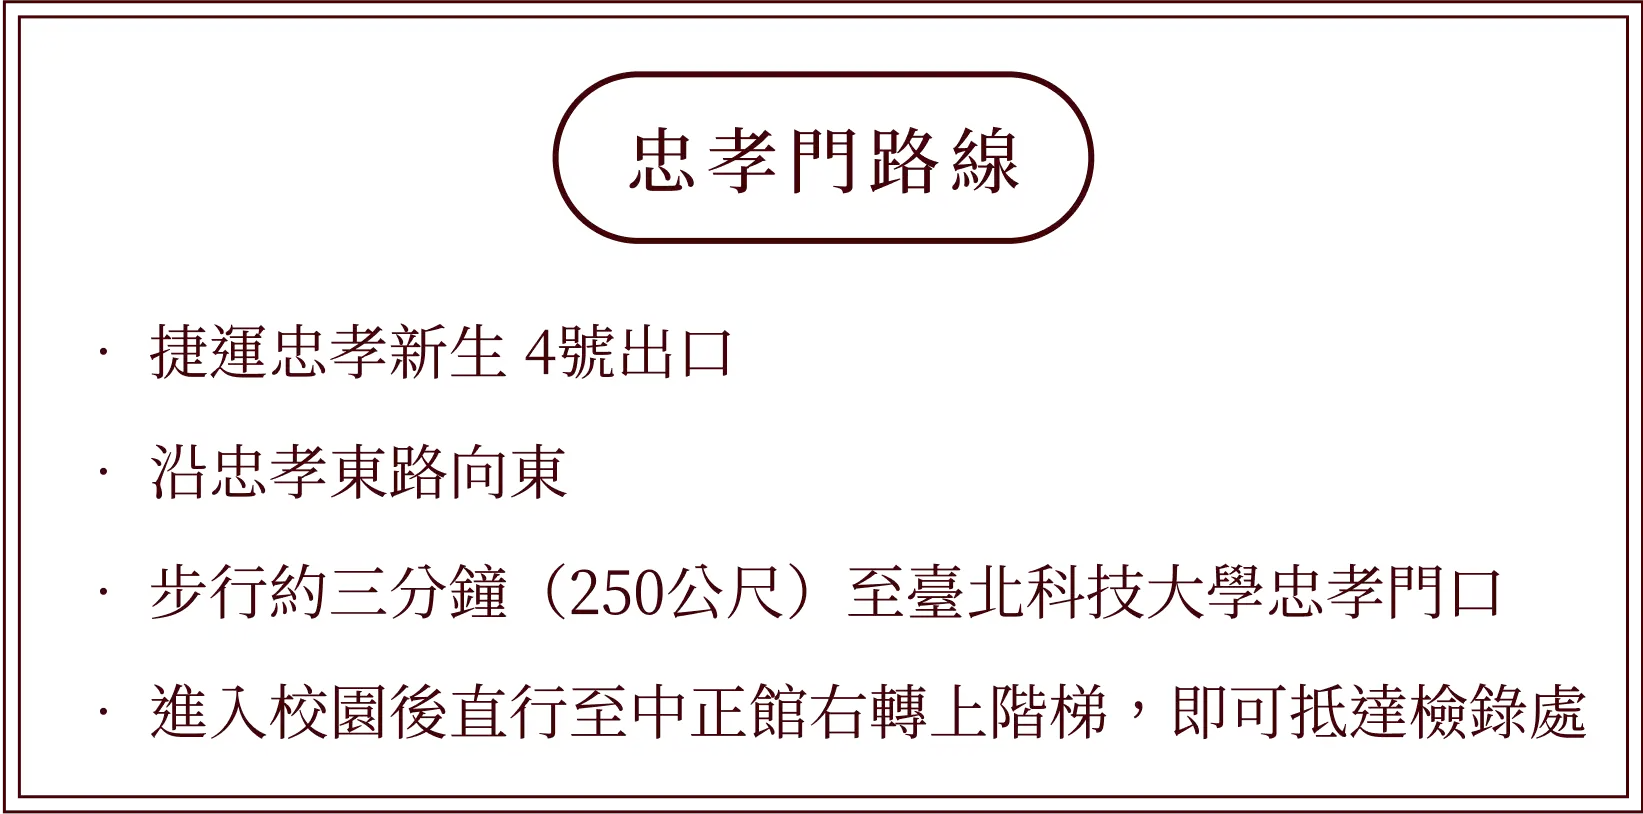
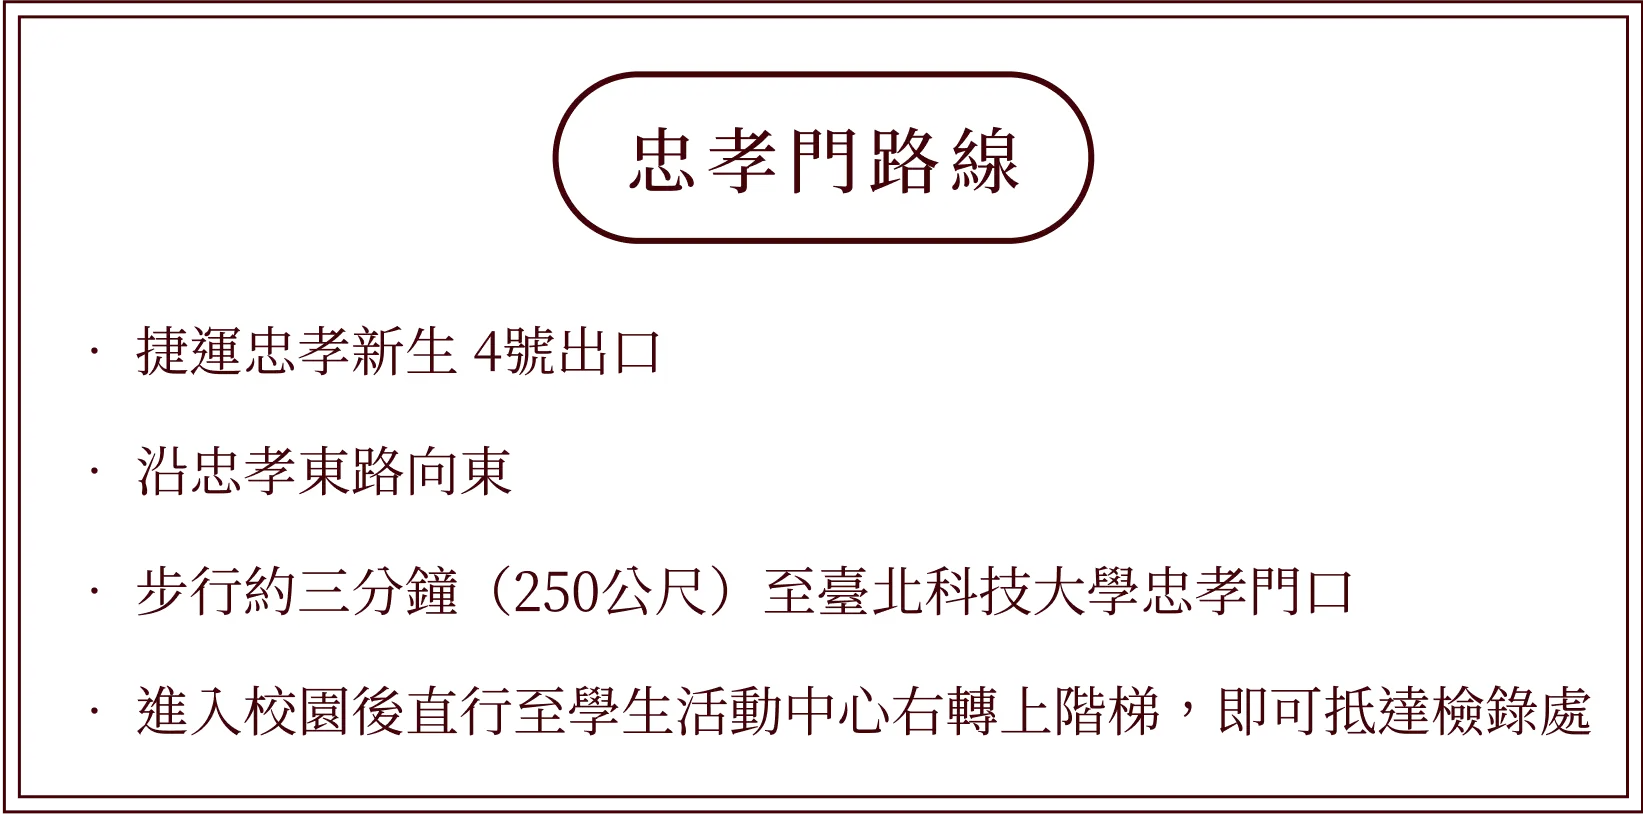
Update information.

diff --git a/src/app/sponsors/page.tsx b/src/app/sponsors/page.tsx
@@ -49,6 +49,11 @@ const SponsorSingle: React.FC = () => {
       sponsor_link: "https://www.instagram.com/89_loop/",
     },
     {
+      sponsor_img: "07",
+      sponsor_name: "飛捷廣告影印數位印刷",
+      sponsor_link: "https://order.feijie.com.tw",
+    },
+    {
       sponsor_img: "08",
       sponsor_name: "財團法人華研基金會",
       sponsor_link: "https://himfoundation.org.tw",
@@ -71,6 +76,11 @@ const SponsorSingle: React.FC = () => {
       co_organizer_name: "禧樂音樂",
       co_organizer_link: "https://www.facebook.com/xiyue.com.tw/",
     },
+    {
+      co_organizer_img: "12",
+      co_organizer_name: "攝影功人",
+      co_organizer_link: "https://www.instagram.com/phomaster_2025",
+    },
   ];
   return (
     <div className="mx-[5%] mb-[8%] max-md:mx-[3%] pt-[5%]">
@@ -82,13 +92,22 @@ const SponsorSingle: React.FC = () => {
             className=" w-56 mx-[2%] my-16 max-lg:w-48 max-lg:mx-[1%] max-lg:my-12 max-md:mx-[2%] max-md:w-44 max-m_sm:w-[150px] max-md:my-8"
           >
             <div>
-              <a href={sponsor.sponsor_link} target="_blank" rel="noreferrer">
+              {sponsor.sponsor_link === " " ? (
                 <img
                   className="w-48 items-center mx-auto border border-Cus_Brown rounded-full max-lg:w-40 max-md:w-36 hover:scale-105"
                   src={`/sponsors/sponsor_${sponsor.sponsor_img}.webp`}
                   alt="red string"
                 />
-              </a>
+              ) : (
+                <a href={sponsor.sponsor_link} target="_blank" rel="noreferrer">
+                  <img
+                    className="w-48 items-center mx-auto border border-Cus_Brown rounded-full max-lg:w-40 max-md:w-36 hover:scale-105"
+                    src={`/sponsors/sponsor_${sponsor.sponsor_img}.webp`}
+                    alt="red string"
+                  />
+                </a>
+              )}
+
               <p className="little_text font-bold tracking-wider text-center leading-7 mt-6 max-md:mt-4">
                 {sponsor.sponsor_name.split("\n").map((line, index) => (
                   <span key={index}>
@@ -107,20 +126,29 @@ const SponsorSingle: React.FC = () => {
         {co_organizer.map((co_organizer, index) => (
           <div
             key={index}
-            className="w-56 mx-[10%] my-16 max-lg:w-48 max-lg:mx-[5%] max-lg:my-12 max-md:mx-[2%] max-md:w-44 max-md:my-8 max-m_sm:w-[150px] max-m_sm:mx-[2%] "
+            className="w-56 mx-[5%] my-16 max-lg:w-48 max-lg:mx-[1%] max-lg:my-12 max-md:mx-[2%] max-md:w-44 max-md:my-8 max-m_sm:w-[150px] max-m_sm:mx-[2%] "
           >
             <div>
-              <a
-                href={co_organizer.co_organizer_link}
-                target="_blank"
-                rel="noreferrer"
-              >
+              {co_organizer.co_organizer_link === " " ? (
                 <img
                   className="w-48 items-center mx-auto border border-Cus_Brown rounded-full max-lg:w-40 max-md:w-36 hover:scale-105"
                   src={`/sponsors/sponsor_${co_organizer.co_organizer_img}.webp`}
                   alt="red string"
                 />
-              </a>
+              ) : (
+                <a
+                  href={co_organizer.co_organizer_link}
+                  target="_blank"
+                  rel="noreferrer"
+                >
+                  <img
+                    className="w-48 items-center mx-auto border border-Cus_Brown rounded-full max-lg:w-40 max-md:w-36 hover:scale-105"
+                    src={`/sponsors/sponsor_${co_organizer.co_organizer_img}.webp`}
+                    alt="red string"
+                  />
+                </a>
+              )}
+
               <p className="little_text font-bold tracking-wider text-center leading-7 mt-6 max-md:mt-4">
                 {co_organizer.co_organizer_name
                   .split("\n")

diff --git a/src/app/about/components/aboutSection02.tsx b/src/app/about/components/aboutSection02.tsx
@@ -8,19 +8,23 @@ export default function AboutSection02() {
       articleTitle: "宗旨",
       articleContent:
         "「赤弦獎--紅樓琴緣民歌比賽」是采音吉他社最為重要且盛大的活動，自民國 90 年開始舉辦，至今即將進入第二十四屆。初期是以舉辦給北科學生參賽為主，經由多屆的比賽累積活動經驗及檢討，嘗試於第七屆擴大賽事，廣集新竹以北之各大專院校之參賽者共襄盛舉，於第八屆將賽事擴大至全國大專院校及北部高中職，第十三屆增加演奏組，第十四屆更是新增音樂節活動，邀請十三屆得獎人為我們表演，並於第十八屆將賽事更擴大至全國大專院校及全國高中職。希望透過赤弦獎這個比賽，讓參賽者能夠不僅保有赤子之心，還能實踐對音樂的熱愛，在求學生涯中能有機會展現自我，並於賽事中發掘人才，提升國內的音樂素質。",
-      // articleImage: "",
+      articleImage: " ",
+      articleLink: " ",
     },
     {
       articleTitle: "目標",
       articleContent:
         "赤弦獎的目標及理念，即為推廣校園音樂風氣，讓對音樂表演有興趣的學生有展現自我的機會，且藉由校際間的競賽，達到交流學習的效果。本屆目標是希望讓參賽者的音樂、作品能夠被更多人聽見，於是積極尋求與音樂平台合作，藉以鼓勵參賽者創作及比賽。",
-      // articleImage: "",
+      articleImage: " ",
+      articleLink: " ",
     },
     {
       articleTitle: "關於采音",
       articleContent:
         "采音吉他社，為國立臺北科技大學的音樂性社團，有來自各大專院校的學生參與，專注於音樂能力的提升和音樂表演的多樣性。涵蓋多種曲風，包括木歌和團歌，幫助社員掌握優秀的音樂技巧和表演方法。且社團也積極舉辦各類音樂活動，促進社員間的交流與合作。也協助學校籌辦赤弦獎，為音樂愛好者提供展現才華的舞台。",
-      // articleImage: "",
+      articleImage: "./about/tsaiyinLogo.webp",
+      articleLink:
+        "https://www.youtube.com/@%E9%87%87%E5%85%89%E5%BD%B1%E5%83%8F",
     },
   ];
   return (
@@ -69,6 +73,22 @@ export default function AboutSection02() {
                 <p className="medium_text text-center tracking-widest leading-loose max-md:tracking-widest max-sm:leading-normal">
                   {article[selectedIndex].articleContent}
                 </p>
+                <div>
+                  {article[selectedIndex].articleImage !== " " && (
+                    <div className="flex justify-center">
+                      <a
+                        className="pt-[5%] w-[30%]"
+                        href={article[selectedIndex].articleLink}
+                        target="_blank"
+                      >
+                        <img
+                          src={article[selectedIndex].articleImage}
+                          alt="第二十五屆赤弦獎吾聲主視覺-臺北科技大學采音吉他社主辦民歌比賽"
+                        />
+                      </a>
+                    </div>
+                  )}
+                </div>
               </div>
             </div>
           </div>

diff --git a/src/app/information/page.tsx b/src/app/information/page.tsx
@@ -55,7 +55,7 @@ export default function SwiperImage() {
           className="large_text text-center font-bold py-[2%]  max-m_md:medium_text max-m_md:font-bold max-md:py-[4%] max-m_sm:scale-90"
         >
           <p className="py-1">詳細地址｜台北市大安區 忠孝東路三段一號</p>
-          <p className=" py-1">初賽地點｜臺北科技大學 中正館紀念館一樓</p>
+          <p className=" py-1">初賽地點｜臺北科技大學 學生活動中心一樓</p>
         </div>
         <ButtonSwitchPage
           text="交通影片"
